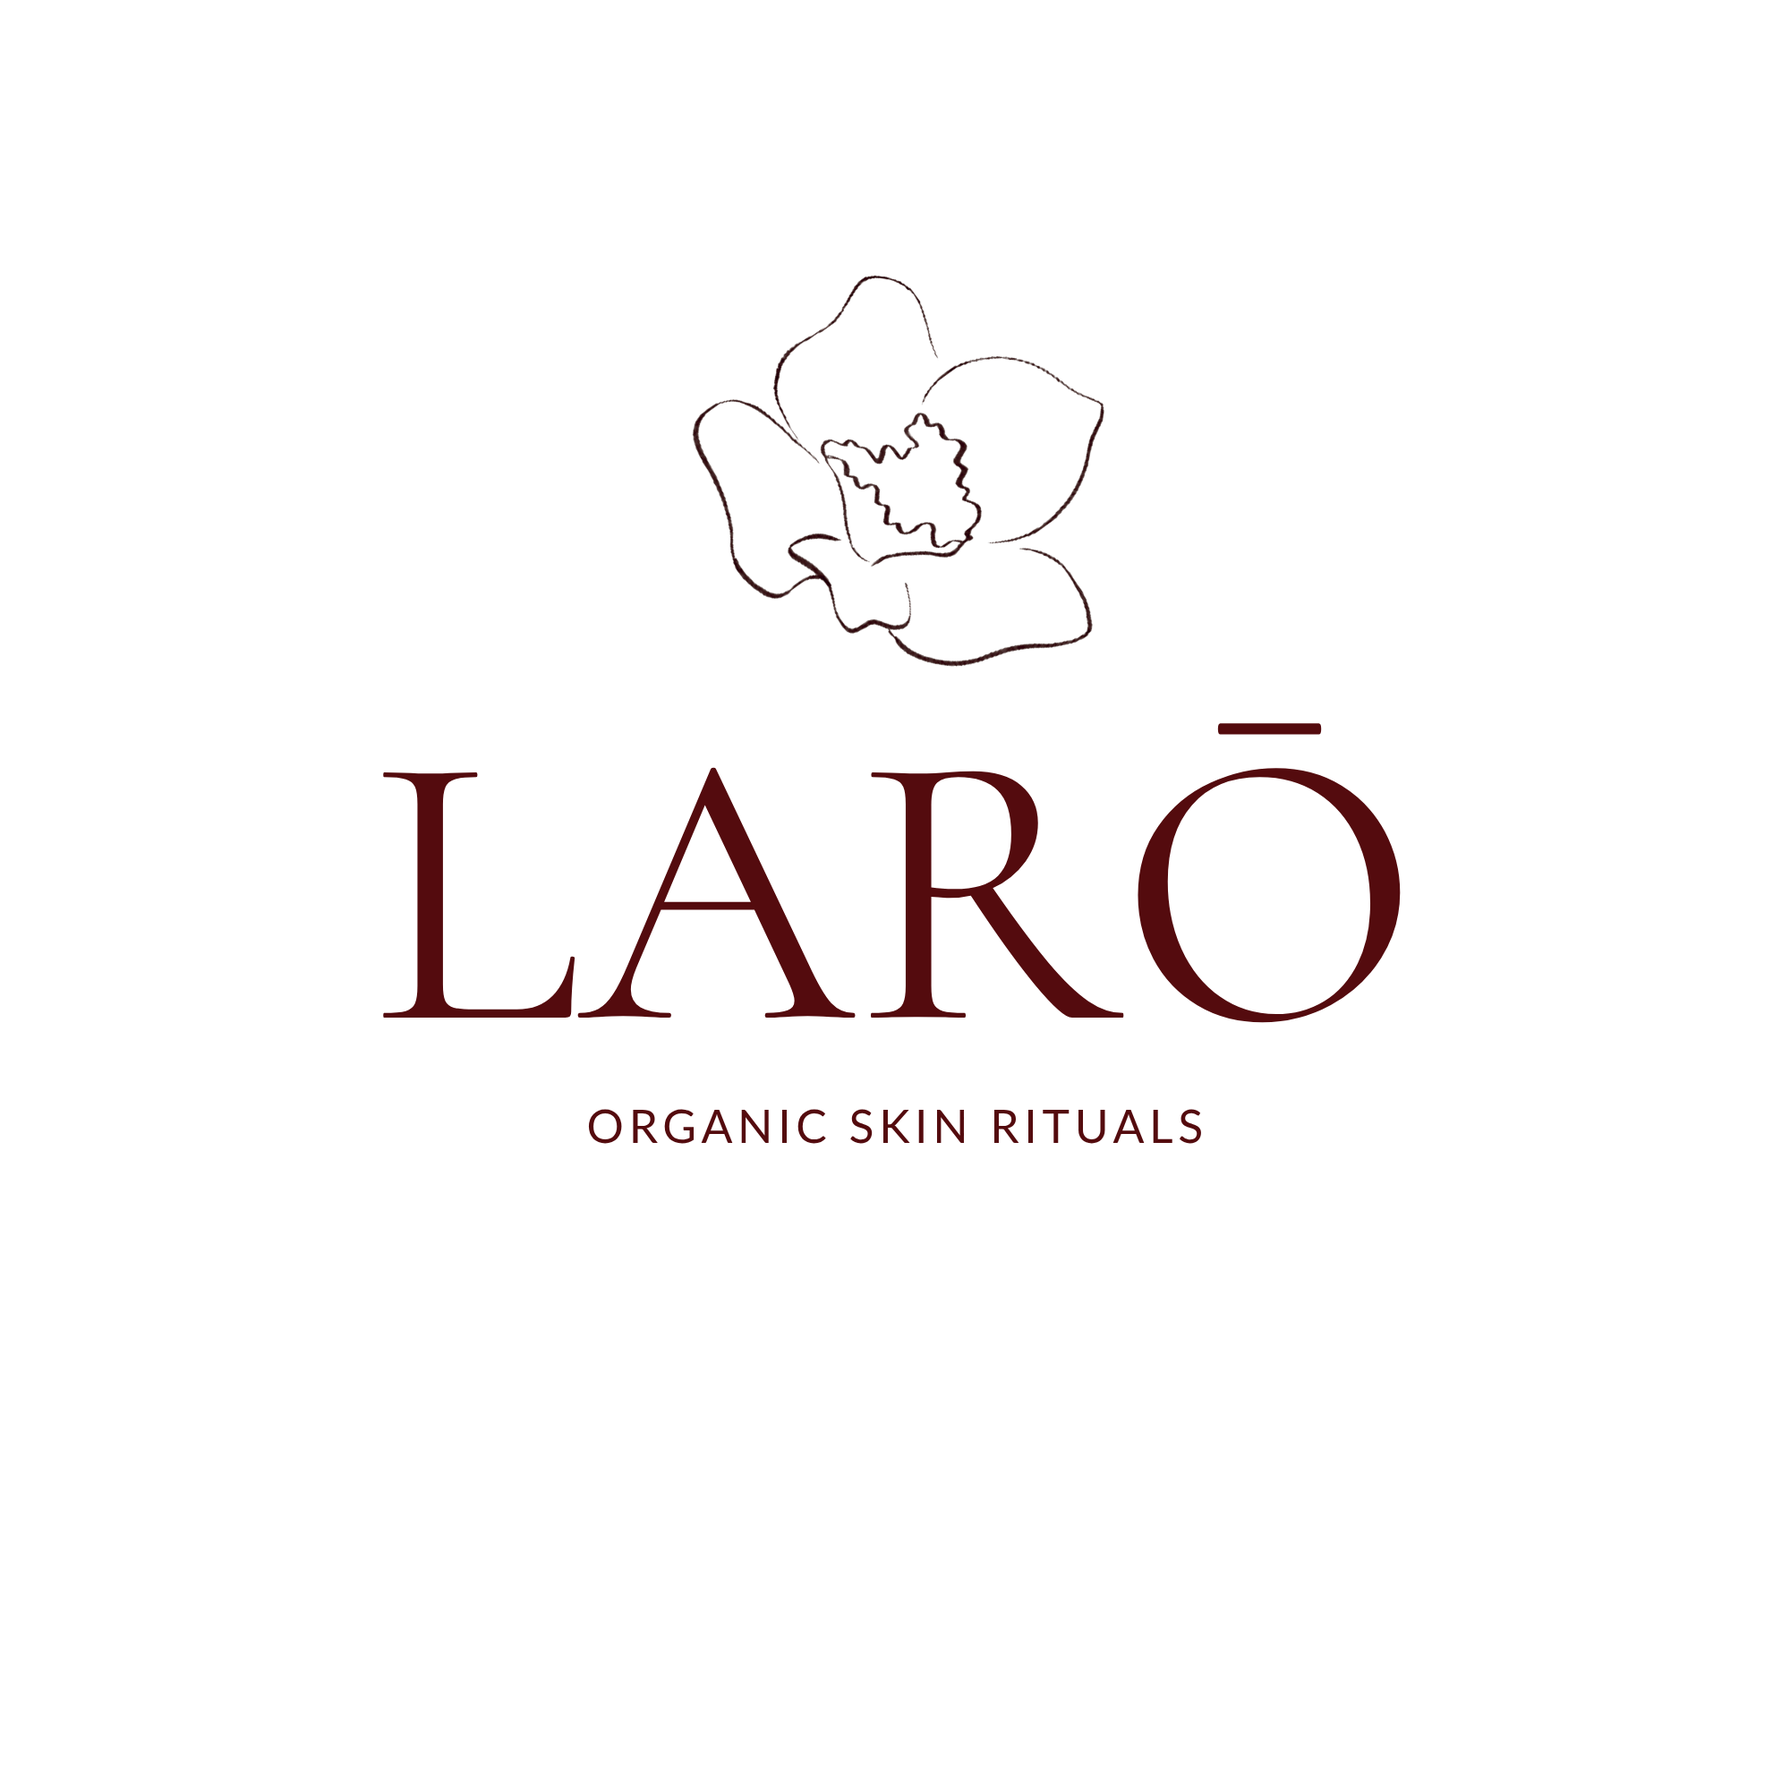
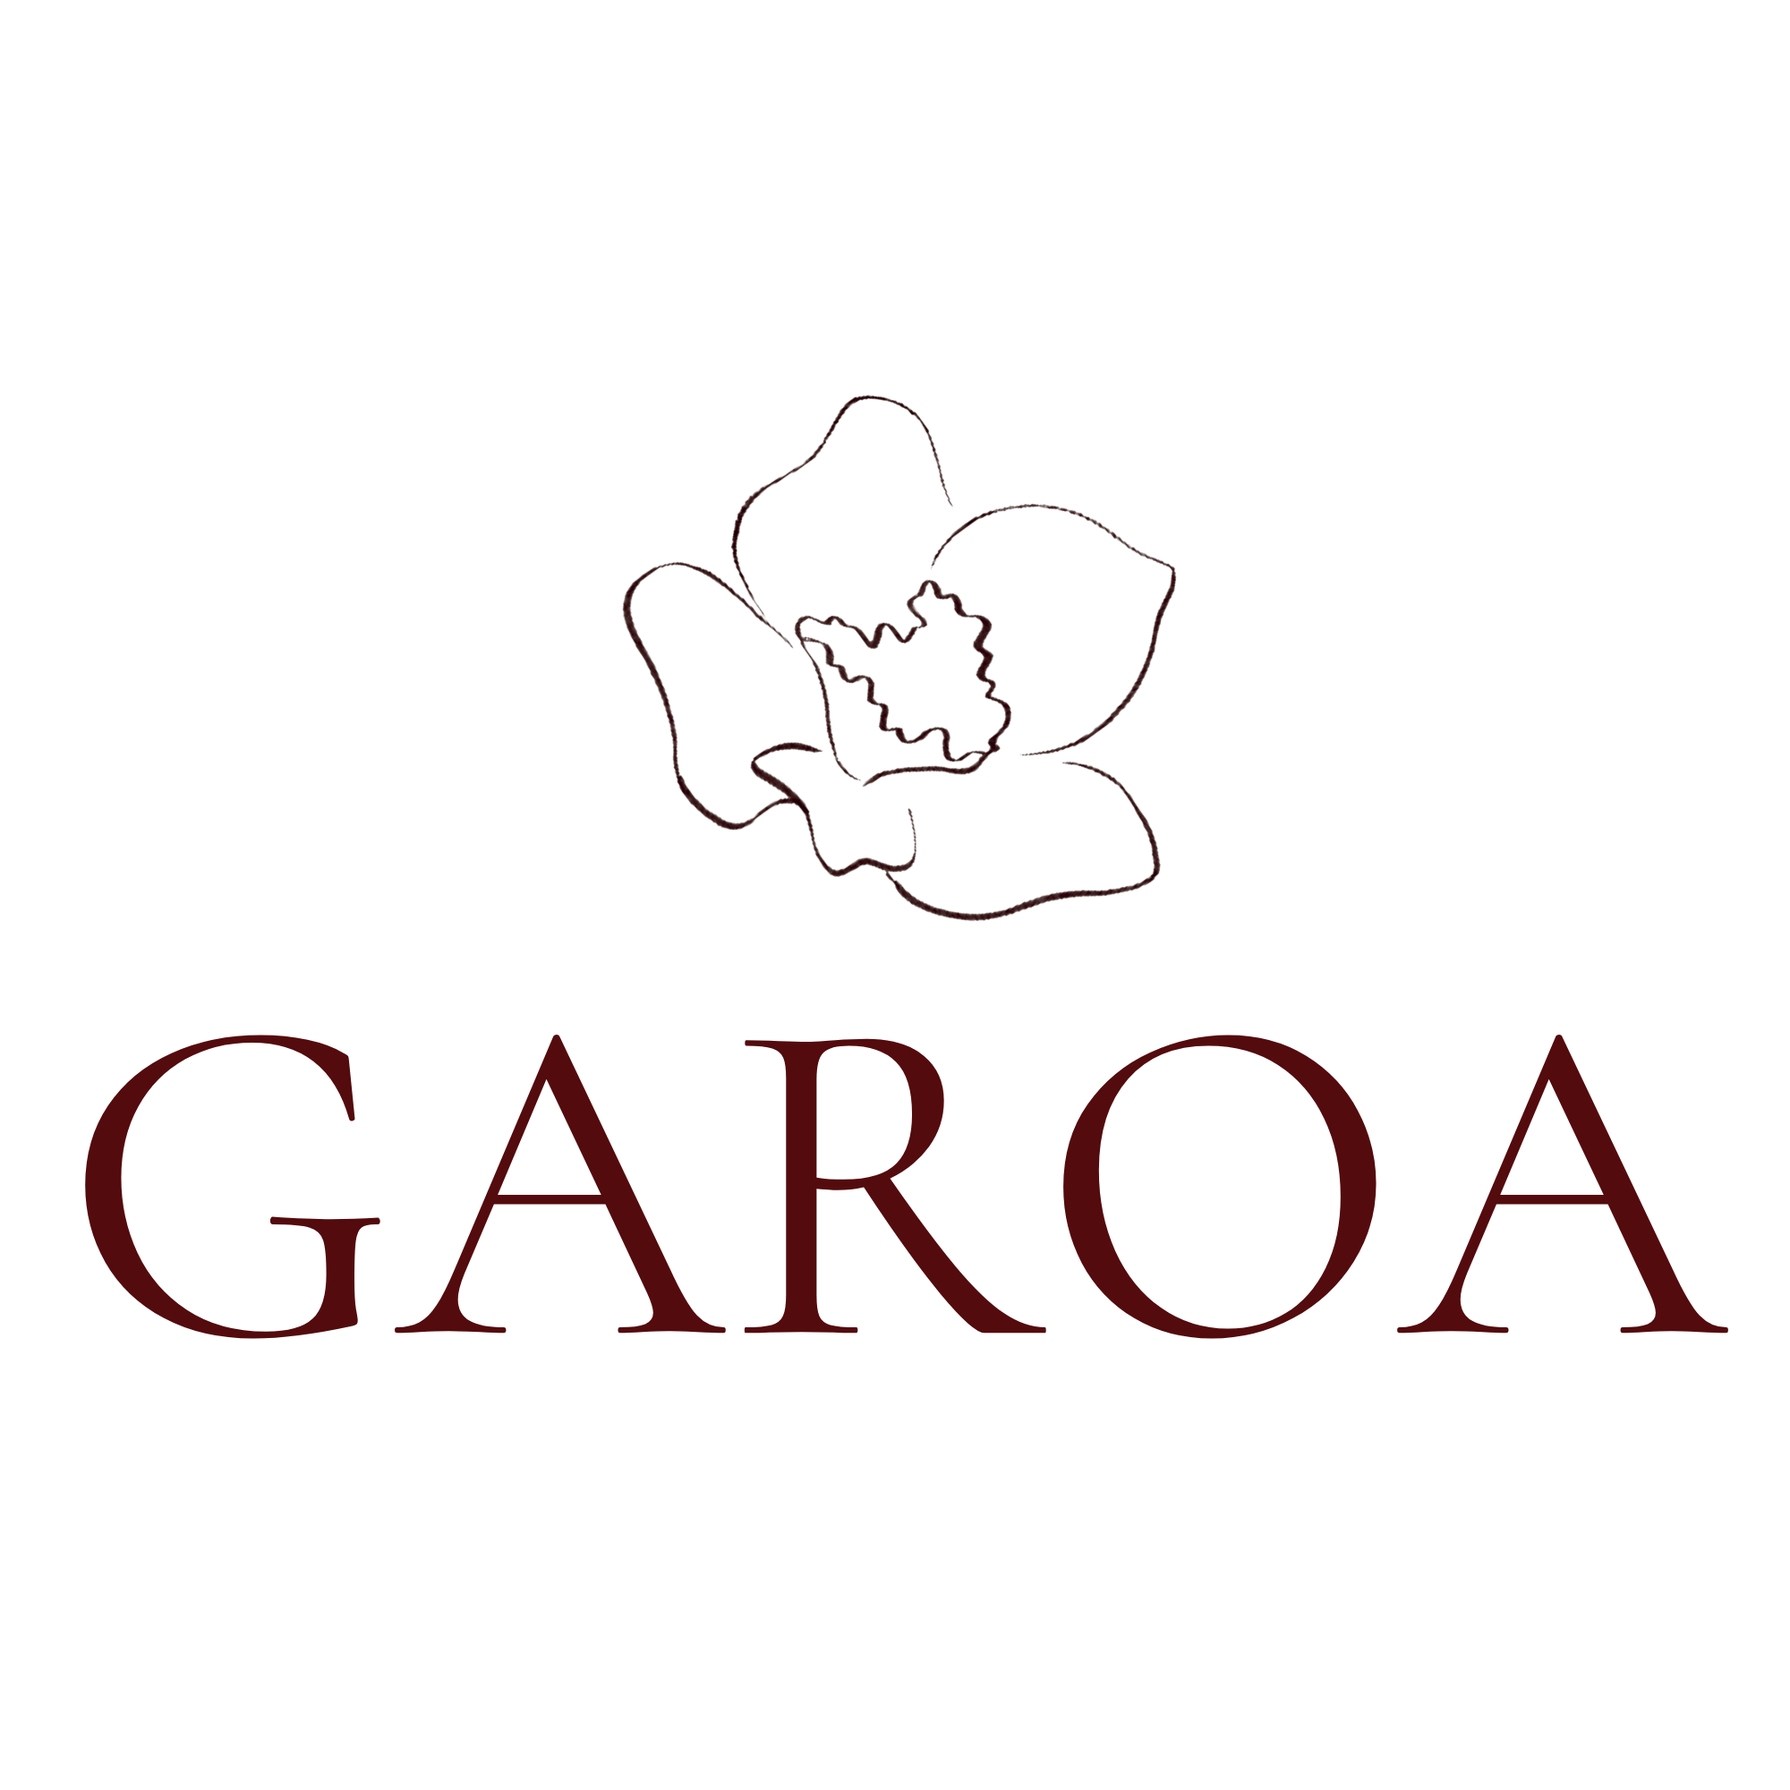
Add files via upload

diff --git a/sobre-garoa.html b/sobre-garoa.html
@@ -3,11 +3,11 @@
 <head>
 <meta charset="UTF-8">
 <meta name="viewport" content="width=device-width, initial-scale=1.0">
-<title>GAROA · Organic Skin Rituals | Rituales de piel con base científica</title>
-<meta name="description" content="GAROA es educación sobre skincare fundada por Sarai Orrego, bioquímica y bióloga molecular. Aprende a entender tu piel, construye tu ritual y cuídate desde el conocimiento.">
+<title>La fundadora y los valores · GAROA</title>
+<meta name="description" content="Quién es Sarai Orrego, bioquímica y bióloga molecular, y los principios sobre los que está construida GAROA.">
 <meta name="robots" content="index, follow">
 <link rel="icon" type="image/png" href="garoa-flower.png">
-<link rel="canonical" href="https://garoa-skinrituals.com/">
+<link rel="canonical" href="https://garoa-skinrituals.com/sobre-garoa.html">
 
 <!-- Privacy-friendly analytics by Plausible -->
 <script async src="https://plausible.io/js/pa-h7kg02WwHrgqRTrpBHhpN.js"></script>
@@ -35,17 +35,17 @@
 
 <!-- Open Graph -->
 <meta property="og:type" content="website">
-<meta property="og:url" content="https://garoa-skinrituals.com/">
-<meta property="og:title" content="GAROA · Organic Skin Rituals">
-<meta property="og:description" content="Aprende a cuidar tu piel desde el conocimiento, no desde el miedo. Rituales orgánicos con base científica, pensados para tu vida real.">
+<meta property="og:url" content="https://garoa-skinrituals.com/sobre-garoa.html">
+<meta property="og:title" content="La fundadora y los valores · GAROA">
+<meta property="og:description" content="Quién es Sarai Orrego, bioquímica y bióloga molecular, y los principios sobre los que está construida GAROA.">
 <meta property="og:image" content="https://garoa-skinrituals.com/sarai-orrego.jpeg">
 <meta property="og:locale" content="es_ES">
 <meta property="og:site_name" content="GAROA Organic Skin Rituals">
 
 <!-- Twitter Card -->
 <meta name="twitter:card" content="summary_large_image">
-<meta name="twitter:title" content="GAROA · Organic Skin Rituals">
-<meta name="twitter:description" content="Aprende a cuidar tu piel desde el conocimiento, no desde el miedo. Rituales orgánicos con base científica, pensados para tu vida real.">
+<meta name="twitter:title" content="La fundadora y los valores · GAROA">
+<meta name="twitter:description" content="Quién es Sarai Orrego, bioquímica y bióloga molecular, y los principios sobre los que está construida GAROA.">
 <meta name="twitter:image" content="https://garoa-skinrituals.com/sarai-orrego.jpeg">
 
 <link href="https://fonts.googleapis.com/css2?family=Cormorant+Garamond:ital,wght@0,300;0,400;0,600;1,300;1,400&family=Lato:wght@300;400;700&display=swap" rel="stylesheet">
@@ -735,177 +735,79 @@
   </div>
 </div>
 
-<!-- HERO -->
-<section class="hero">
-  <h1 class="hero-title">
-    Tu piel no necesita<br>más productos.
-    <em>Necesita mejores cuidados.</em>
-  </h1>
-  <div class="hero-divider"></div>
-  <p class="hero-sub">
-    Aprende a cuidarte desde el conocimiento, no desde el miedo. Sin estándares de belleza que no te representan. Sin productos de más. Solo tú y tu piel.
-  </p>
-  <div class="hero-cta">
-    <a href="#solucion" class="btn-primary">Quiero saber más</a>
+<!-- ABOUT HEADER -->
+<section style="background: var(--cream); padding: 200px 48px 40px;">
+  <div style="max-width:1100px;margin:0 auto;">
+    <p class="section-label">Quién hay detrás</p>
+    <h1 class="section-title">La fundadora, la ciencia y los principios que sostienen GAROA.</h1>
   </div>
 </section>
 
-<!-- DOLOR -->
-<section class="dolor">
-  <div class="dolor-inner">
-    <div class="reveal">
-      <p class="section-label">El problema real</p>
-      <h2 class="section-title">La industria lleva años diciéndote que <em>no eres suficiente.</em></h2>
-      <ul class="dolor-lista">
-        <li>Que si tienes arrugas, es un problema que resolver.</li>
-        <li>Que si tu piel no brilla, es porque no usas el sérum correcto.</li>
-        <li>Que envejecer es algo que se puede —y se debe— combatir.</li>
-        <li>Que necesitas doce pasos, cuatro marcas y gastarte un dineral cada mes.</li>
-        <li>Que si no te cuidas "bien", es tu culpa.</li>
-      </ul>
-    </div>
-    <div class="reveal">
-      <p class="dolor-quote">
-        "Y al final acabas con el baño lleno de productos a medias, sin saber qué funciona de verdad, y sintiéndote culpable por no hacerlo mejor."
-      </p>
-    </div>
-  </div>
-</section>
+<!-- PRESENTACIÓN -->
+<section id="presentacion" class="presentacion">
+  <div class="presentacion-inner">
 
-<!-- FOTO BANDA · SOMBRAS 1/3 -->
-<div class="foto-banda foto-banda--t1"></div>
-
-<!-- TRANSFORMACION -->
-<section id="transformacion" style="background: var(--cream);">
-  <div class="transicion">
-    <div class="transicion-header reveal">
-      <p class="section-label" style="text-align:center;">El antes y el después</p>
-      <h2 class="section-title" style="margin: 0 auto; text-align:center;">¿Te suena esto?</h2>
-    </div>
-    <div class="cards-grid reveal">
-
-      <div class="card-antes">
-        <p class="card-tag">Antes de GAROA</p>
-        <p class="card-title">"Compro cosas porque me entran ganas, pero luego no las uso o no me funcionan…"</p>
-        <ul class="feeling-list">
-          <li>Abrumada con tanto producto y tanta información</li>
-          <li>Gastando dinero en cosas que no sabes si te van bien</li>
-          <li>Sintiéndote culpable si no tienes energía para tu rutina</li>
-          <li>Comparándote con estándares que no tienen nada que ver contigo</li>
-          <li>Sin entender qué necesita tu piel de verdad</li>
-          <li>Cuidarte se siente como otra tarea más en la lista</li>
-        </ul>
-      </div>
-
-      <div class="card-arrow">
-        <svg viewBox="0 0 24 24" fill="none" stroke="currentColor" stroke-width="1.5">
-          <path d="M5 12h14M12 5l7 7-7 7"/>
-        </svg>
-      </div>
-
-      <div class="card-despues">
-        <p class="card-tag">Después de GAROA</p>
-        <p class="card-title">"Por fin entiendo lo que necesita mi piel, y con mucho menos de lo que pensaba."</p>
-        <ul class="feeling-list">
-          <li>Claridad total: sabes qué usar, cuándo y por qué</li>
-          <li>Tu baño tiene lo que de verdad funciona para ti</li>
-          <li>Cuidarte se convierte en un rato tuyo, no en una obligación</li>
-          <li>Tu piel mejora, y lo notas sin mirar a nadie más</li>
-          <li>Te relacionas con tu piel desde el respeto, no desde la corrección</li>
-          <li>El cuidado se integra en tu vida real, con el tiempo que tienes</li>
-        </ul>
-      </div>
-
-    </div>
-  </div>
-</section>
-
-<!-- FOTO BANDA · SOMBRAS 2/3 -->
-<div class="foto-banda foto-banda--t2"></div>
-
-<!-- FRASE CENTRAL -->
-<div class="frase-central">
-  <p>
-    "Cuidar tu piel no es una obligación ni algo excéntrico.
-    <span>Es un acto de amor."</span>
-  </p>
-</div>
-
-<!-- SOLUCION -->
-<section id="solucion" style="background: var(--cream);">
-  <div class="solucion-inner">
-    <div class="solucion-texto reveal">
-      <p class="section-label">La solución</p>
-      <h2 class="section-title">Rituales de piel que <em>tienen sentido para tu vida.</em></h2>
-      <p>Aquí no te vendo más cosas. Te enseño a entender tu piel desde la base, con criterio científico y sin el ruido de la industria.</p>
-      <p><strong>Porque cuando entiendes lo que hace cada ingrediente, lo que necesita tu piel según la temporada, tu estrés o tu ciclo,</strong> ya no necesitas que nadie te diga qué comprar.</p>
-      <ul class="pilares">
-        <li>
-          <span class="pilar-num">01</span>
-          <div class="pilar-content">
-            <strong>Conocimiento real</strong>
-            <span>Ingredientes activos, formulación, cómo leer una etiqueta. Sin tecnicismos innecesarios.</span>
-          </div>
-        </li>
-        <li>
-          <span class="pilar-num">02</span>
-          <div class="pilar-content">
-            <strong>Ritual, no rutina</strong>
-            <span>Un momento tuyo que se integra en tu día a día sin añadir presión.</span>
-          </div>
-        </li>
-        <li>
-          <span class="pilar-num">03</span>
-          <div class="pilar-content">
-            <strong>Tu piel, no la de nadie más</strong>
-            <span>Personalizado para cómo es tu piel de verdad, no la piel ideal de un anuncio.</span>
-          </div>
-        </li>
-      </ul>
+    <div class="presentacion-foto reveal">
+      <img src="sarai-presentacion.jpg" alt="Sarai Orrego, fundadora de GAROA">
     </div>
 
-    <div class="solucion-caja reveal">
-      <p class="solucion-caja-tag">Talleres presenciales · Grupos reducidos</p>
-      <h3 class="solucion-caja-title">Entiende tu piel. <em>Luego, ponla en tus manos.</em></h3>
-      <p>
-        Un taller en dos partes: primero, el conocimiento real — cómo funciona tu piel desde dentro, por qué reacciona como reacciona, qué necesita de verdad. Después, la práctica: masaje facial y las joyas del tocador como herramientas de ritual con base fisiológica.
-      </p>
-      <p>
-        Grupos pequeños. Cada asistente se lleva un dossier para seguir practicando en casa.
-      </p>
-      <button onclick="openModal('talleres')" class="btn-primary" style="margin-top: 8px; border: none; cursor: pointer;">Ver información</button>
-    </div>
-  </div>
-</section>
+    <div class="presentacion-texto reveal">
+      <p class="section-label">La fundadora</p>
+      <h2 class="section-title">Bioquímica. Bióloga molecular. Y alguien que lleva años leyendo lo que pone <em>detrás del bote.</em></h2>
+      <p>Soy Sarai Orrego. Estudié bioquímica y biología molecular, y tengo experiencia real en cosmética. Sé exactamente qué hace cada ingrediente en una fórmula, cómo actúa sobre la piel, qué le puedes pedir y qué no.</p>
+      <p>Lo que para muchas personas es un código ininteligible en la parte de atrás del envase, para mí es información concreta. Y eso cambia completamente cómo te relacionas con lo que te pones en la cara.</p>
+      <p>GAROA nació de ahí: de simplificar las rutinas de quienes no entienden lo que yo sí. Porque <strong>entender lo que usas es el primer paso para dejar de comprar por impulso y empezar a cuidarte de verdad, y eso lo hago por ti.</strong></p>
+      <p>Empiezo con cursos, material digital y herramientas prácticas. Lo que te ofrezco es conocimiento concreto y simple, traducido para ti: saber qué te estás poniendo, por qué, y si de verdad te funciona.</p>
 
-<!-- FOTO BANDA · SOMBRAS 3/3 -->
-<div class="foto-banda foto-banda--t3"></div>
-
-<!-- PARA QUIÉN -->
-<section class="para-quien">
-  <div class="para-quien-inner">
-    <p class="section-label">¿Esto es para ti?</p>
-    <h2 class="section-title">Si te reconoces en alguna de estas, <em>sí.</em></h2>
-    <div class="perfiles-grid reveal">
-      <div class="perfil">
-        <div class="perfil-icon">I.</div>
-        <h3>Tienes el baño lleno y no sabes qué usar</h3>
-        <p>Compras porque algo te llama la atención o porque lo viste en redes, pero al final no sabes si te funciona o no.</p>
-      </div>
-      <div class="perfil">
-        <div class="perfil-icon">II.</div>
-        <h3>Quieres cuidarte pero sin complicarte la vida</h3>
-        <p>Tienes trabajo, familia, mil cosas. No tienes tiempo para una rutina de veinte minutos que además no entiendes.</p>
-      </div>
-      <div class="perfil">
-        <div class="perfil-icon">III.</div>
-        <h3>Estás harta de la presión de parecer más joven</h3>
-        <p>No quieres "combatir" el tiempo. Quieres cuidarte porque te apetece, no porque la industria te diga que tienes que hacerlo.</p>
+      <div class="presentacion-caja">
+        <blockquote>"La maternidad me empujó a mirar la cosmética de otra manera. De repente necesitaba encontrar la forma de ritualizar en medio del huracán — con menos tiempo, menos energía, y más necesidad que nunca de ese rato para mí. Aprendí a hacerlo. Y ahora estoy aquí para enseñarlo."</blockquote>
+        <span class="firma">Sarai Orrego · Fundadora de GAROA</span>
       </div>
     </div>
   </div>
 </section>
 
+<!-- VALORES -->
+<section id="valores" class="valores">
+  <div class="valores-inner">
+    <div class="valores-header reveal">
+      <p class="section-label">Lo que nos guía</p>
+      <h2 class="section-title">Una marca construida sobre <em>principios, no sobre tendencias.</em></h2>
+    </div>
+    <div class="valores-grid reveal">
+      <div class="valor-item">
+        <span class="valor-num">01</span>
+        <p class="valor-nombre">La pausa</p>
+        <p class="valor-desc">En un mundo que parece querernos desconectados, yo propongo reconectar a través de la pausa. Garoa significa llovizna fina en euskera — el rocío que se posa sin prisa. Es la sensación exacta del tónico, el paso que todo el mundo olvida y el que a mí más me gusta dar.</p>
+      </div>
+      <div class="valor-item">
+        <span class="valor-num">02</span>
+        <p class="valor-nombre">El origen</p>
+        <p class="valor-desc">Hay algo ancestral en tocarse la cara con las manos. Recupero ese gesto y le devuelvo su peso. El origen importa.</p>
+      </div>
+      <div class="valor-item">
+        <span class="valor-num">03</span>
+        <p class="valor-nombre">La claridad</p>
+        <p class="valor-desc">Ingredientes que se pueden leer, rutinas que tienen sentido, información que no subestima tu inteligencia. Nada de humo.</p>
+      </div>
+      <div class="valor-item">
+        <span class="valor-num">04</span>
+        <p class="valor-nombre">Lo orgánico</p>
+        <p class="valor-desc">Lo orgánico no es solo un certificado. Es una manera de entender qué le pones a la piel: con criterio, con respeto, y sin añadir lo que no necesita.</p>
+      </div>
+      <div class="valor-item">
+        <span class="valor-num">05</span>
+        <p class="valor-nombre">El placer</p>
+        <p class="valor-desc">Cuidarse no es una obligación. Es un rato tuyo. Un ritual que se repite porque quieres, no porque debes.</p>
+      </div>
+      <div class="valor-item">
+        <span class="valor-num">06</span>
+        <p class="valor-nombre">La ciencia</p>
+        <p class="valor-desc">El rigor científico no está reñido con la belleza. Cada ingrediente tiene un porqué. Y lo cuento sin tecnicismos innecesarios.</p>
+      </div>
+    </div>
+  </div>
+</section>
 
 <!-- FRASE FUNDADORA -->
 <div class="frase-fundadora">

diff --git a/sw.js b/sw.js
@@ -1,7 +1,8 @@
-const CACHE = 'garoa-v50';
+const CACHE = 'garoa-v51';
 const URLS = [
   '/',
   '/index.html',
+  '/sobre-garoa.html',
   '/lista-de-espera.html',
   '/asesoria.html',
   '/talleres.html',
